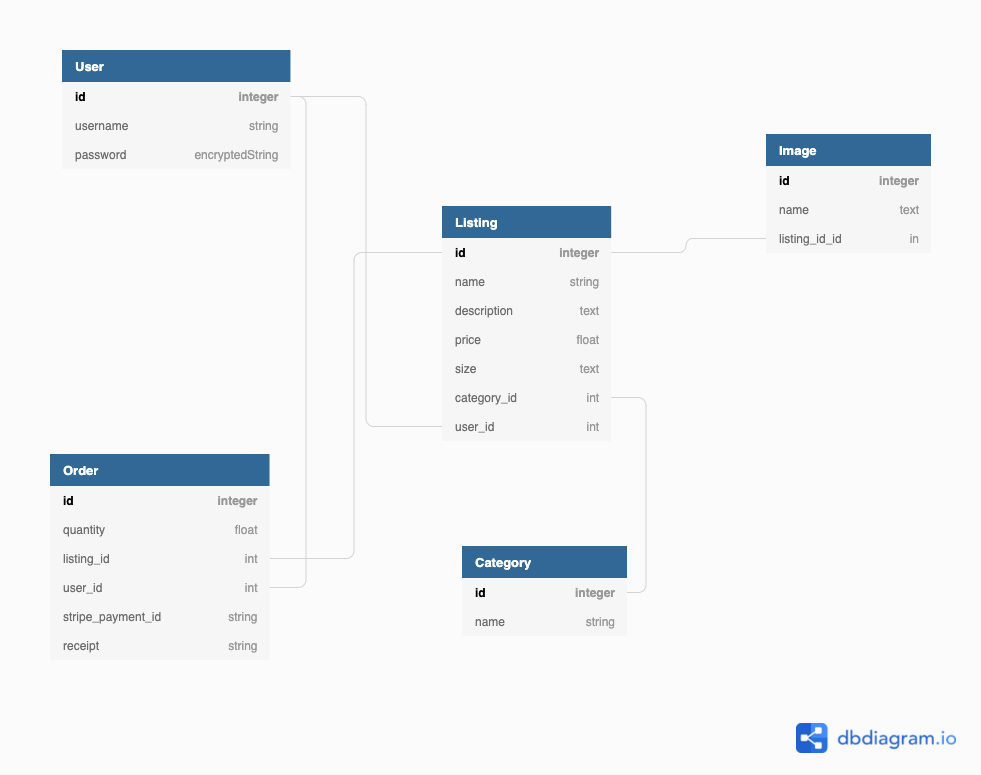
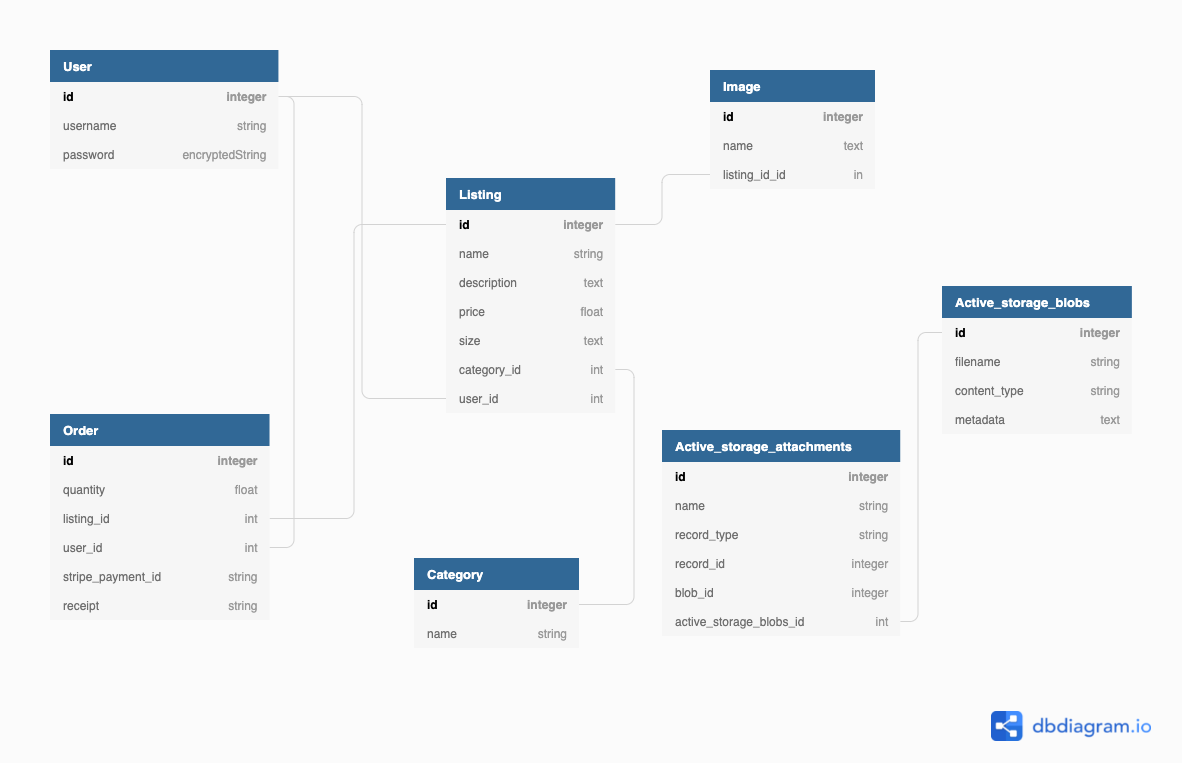
documentation

diff --git a/README.md b/README.md
@@ -1,3 +1,9 @@
+# Blaise Tshitenga
+
+## VinBT - RoR two-sided marketplace application T2A2
+
+<br>
+
 > R8	Why is it a problem that needs solving?
 
 Retro/vintage clothing has slowly been coming back in style and becoming more and more popular around the globe. In fact, it is even getting to the point where it can be considered part of mainstream fashion. However, the issue facing the vintage clothing industry is the shortage of supply. The shortage of supply means that prices tend to be high and limites/slows the growth of the industry as a whole.
@@ -5,6 +11,8 @@ What most online shoppers are looking for is value for money, but importantly pe
 Supply needs to increase in order to ensure the industry continues to grow and attract more customers.
 
 > R9	A link (URL) to your deployed app (i.e. website)
+
+https://vinbt.herokuapp.com
 
 > R10	A link to your GitHub repository (repo).
 - Ensure the repo is accessible by your Educators
@@ -111,6 +119,8 @@ Final ERD
 
 ![Final_erd](docs/final_erd.png)
 
+The final erd less tables compared to the initial one, this is  because as creation of the code proceed i came to the conclion that some of the tables were not need, for example the profile and the purechase table. The purchase table was replace with the order table because a purchase can fail. you need one step before making a purchase which is making a order. Profile table was also also removed as devise created user account when installed.
+
 > R15	Explain the different high-level components (abstractions) in your app
 
 VinBT is a Ruby on Rails two-sided marketplace application architected using MVC (Model, View, Controller). The view displays the user interface with minimum logic. With the help of bootstrape the view presents data from the model to the user. The controller being the brain of the application receives all the user input triggered form the view and translates it to commands for the model. The model is in charge of the application's data, logic, and rules of the application which it receices or adds to postgresql since its the prefered database. Methods for user permission, authentication (using devise) and data sanitization are used to protect the application from malicious activities.
@@ -169,7 +179,7 @@ An order can have one user (`belongs_to: user`) and listing (`belongs_to :listin
 
 * Like Listing table, order table belongs to multiple tables such as User and Listing. The primary keys in the User table(user_id), Listing table (listing_id) are used as foreign keys in the order table. 
 
-* Active record: The active storage tables are polymorphic and relate to images upload. A listing can have many pictures. No reference to this polymorphic association is made listing table however a `has_one_attached` relationship is defined in the listing model.
+
 
 
 
